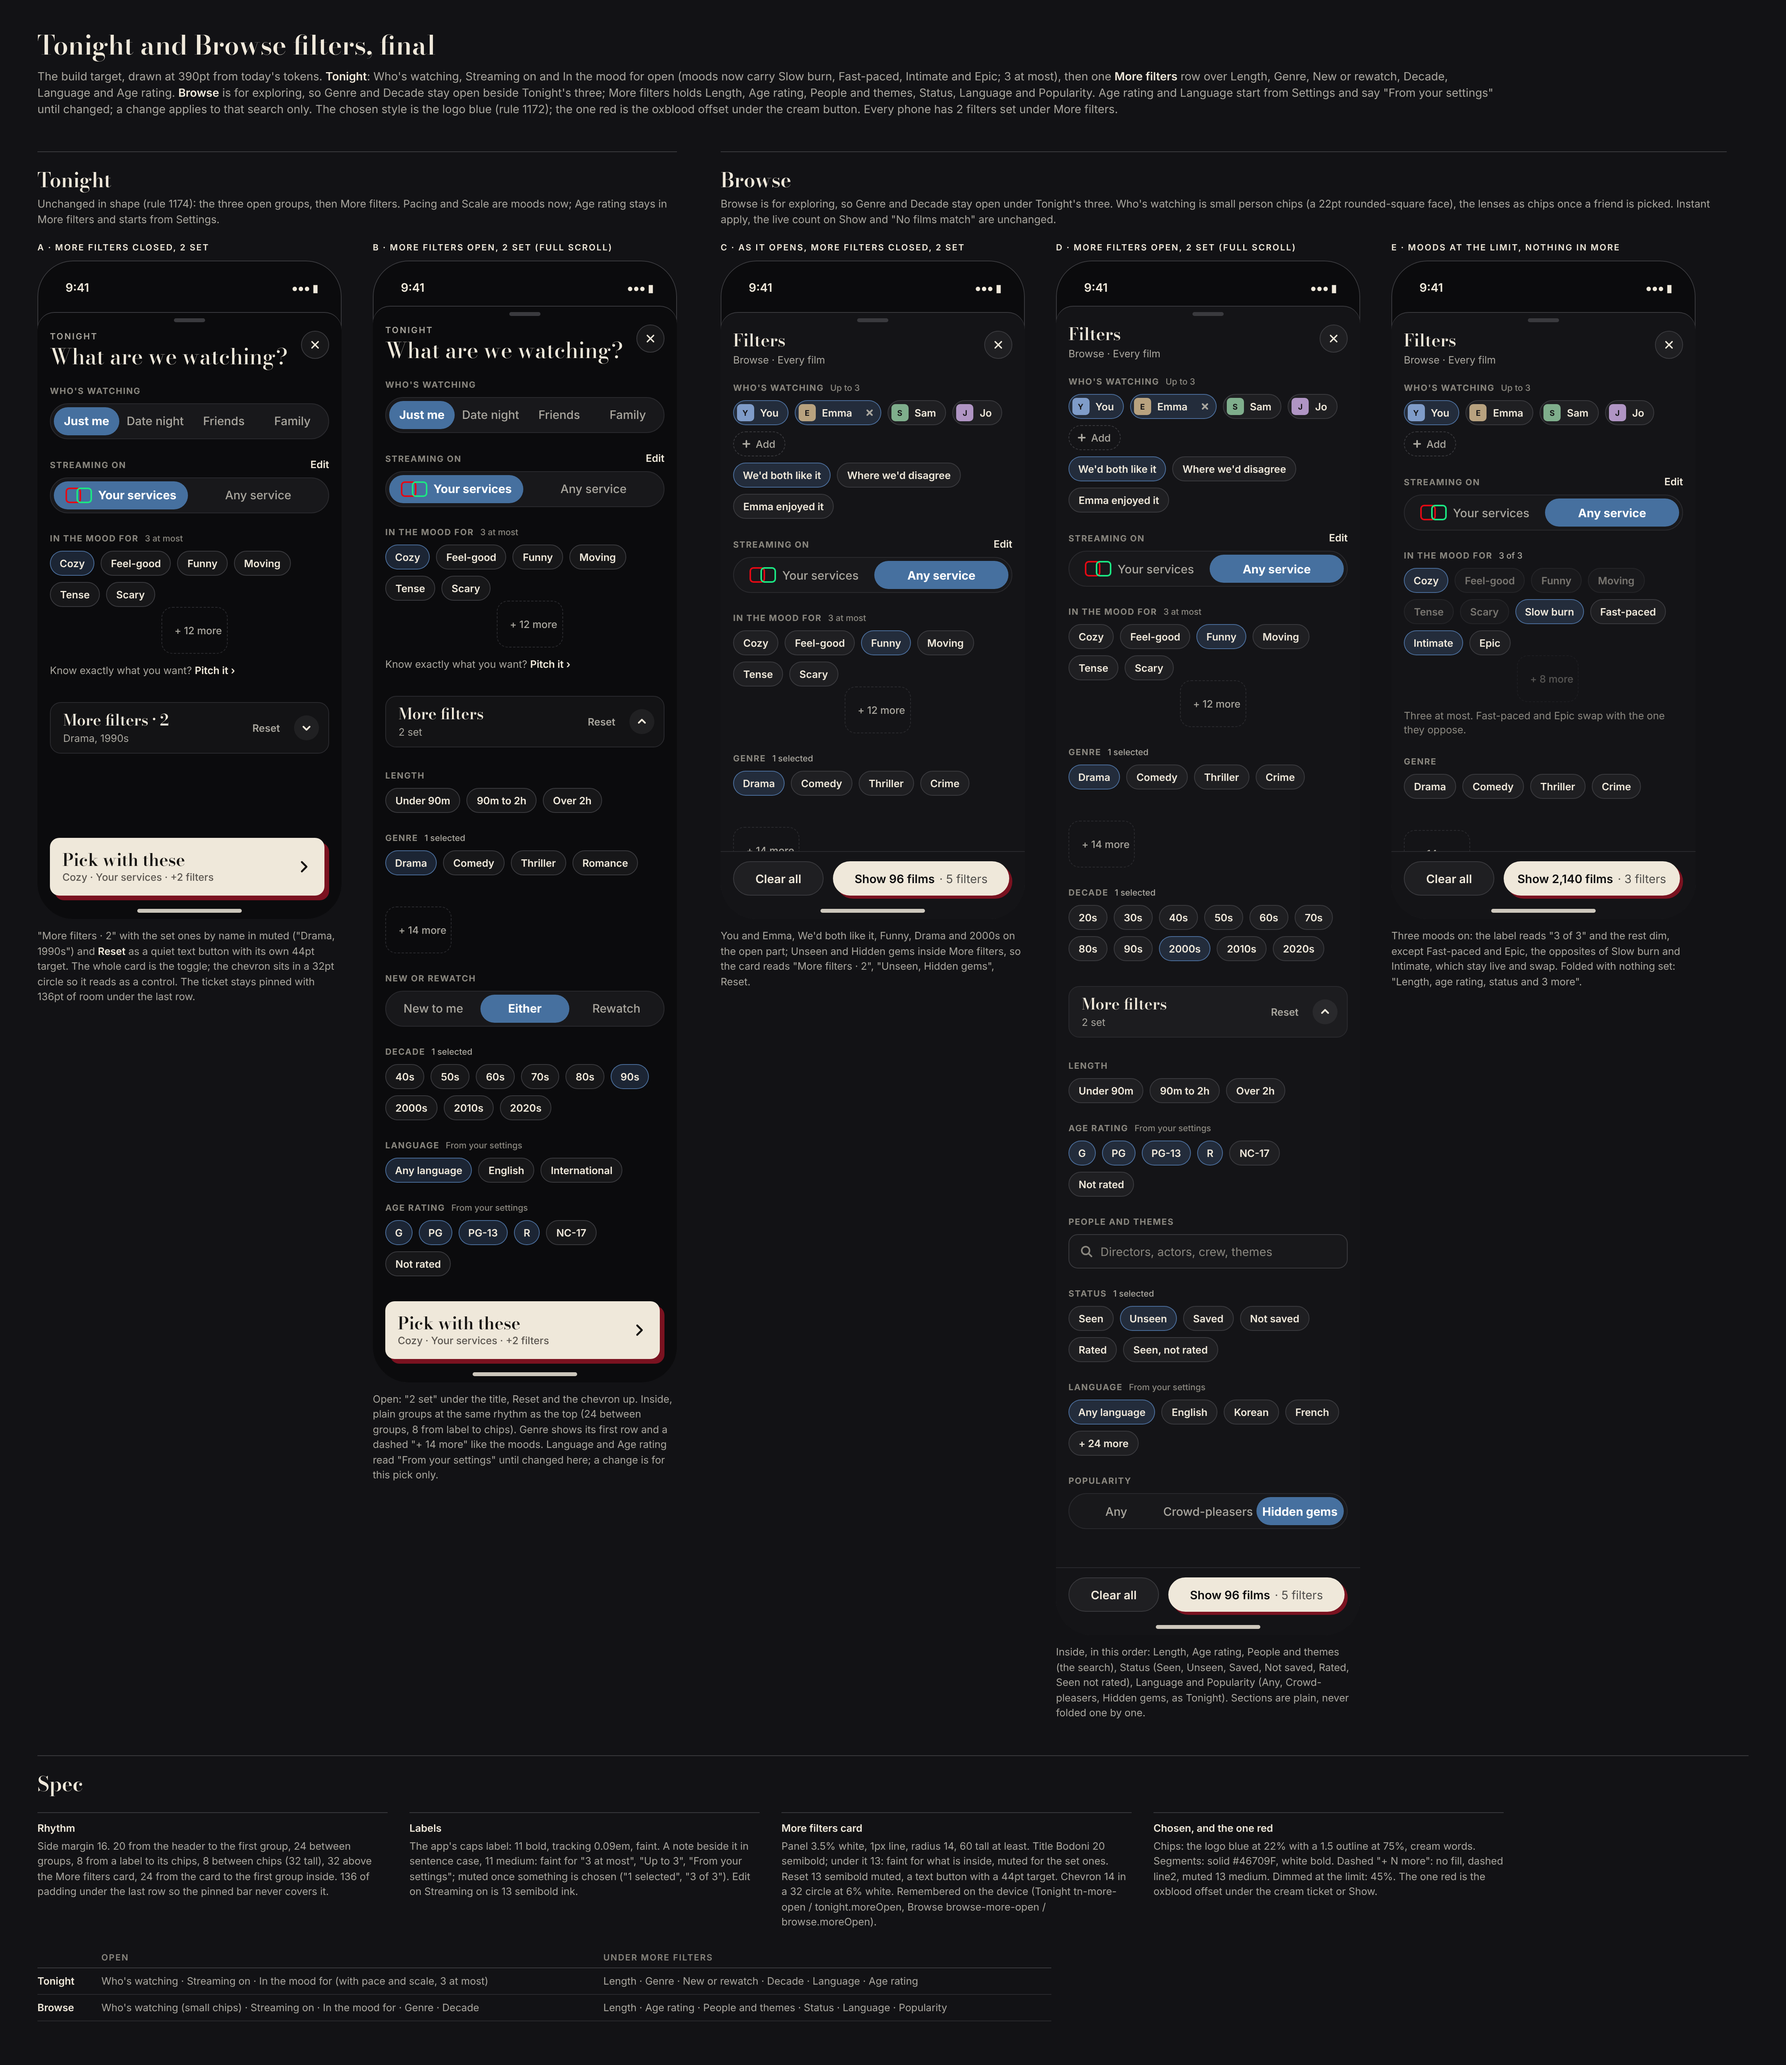
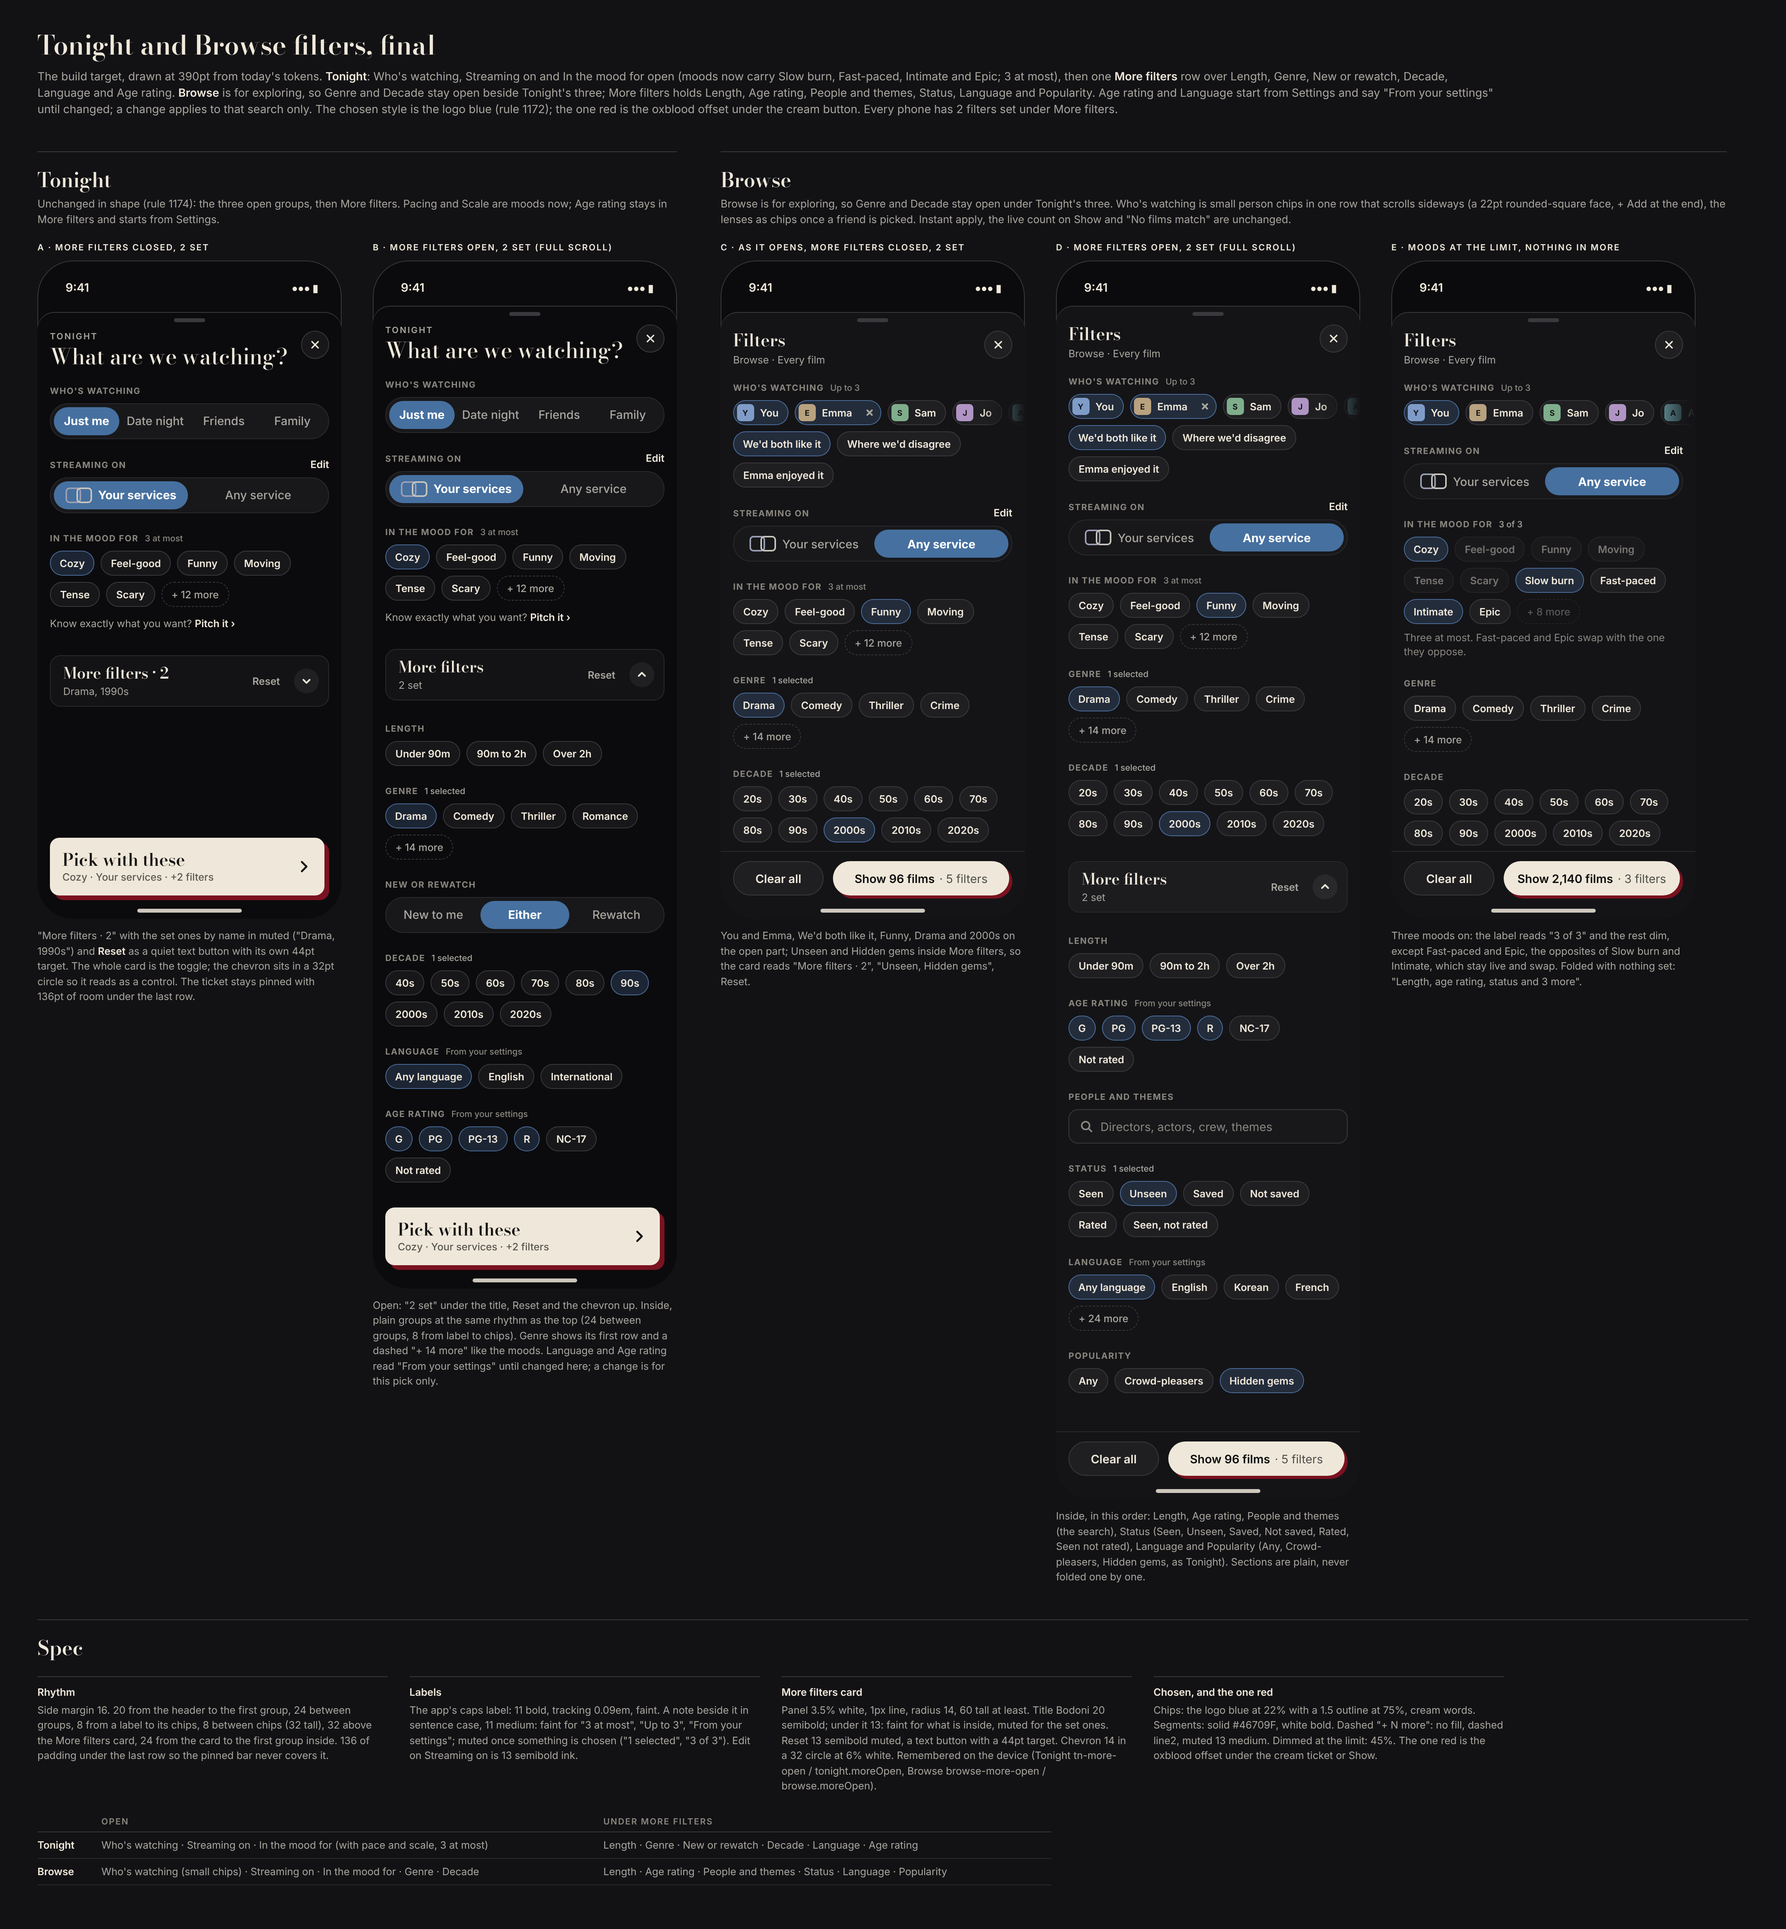
Mock: filters-final-v1, Tonight and Browse filters drawn as the build target (Browse keeps Genre and Decade open; small person chips; More filters card)
Claude-Session: https://claude.ai/code/session_013WRDCFXH8nihP92apJAVW7

diff --git a/mockups/journeys/filters-final-v1.html b/mockups/journeys/filters-final-v1.html
@@ -52,7 +52,7 @@ h1{font:600 34px/1.1 'Bodoni Moda',Georgia,serif}
 .chip{display:inline-flex;align-items:center;gap:6px;height:32px;padding:0 12px;border-radius:999px;background:rgba(255,255,255,.05);border:1px solid var(--line2);font:600 13px Inter;color:var(--ink);white-space:nowrap}
 .chip.on{background:var(--selFill);border:1.5px solid var(--selEdge);padding:0 11.5px}
 .chip.dim{opacity:.45}
-.chip.more{background:none;border-style:dashed;color:var(--muted);font-weight:500}
+.chip.mo{background:none;border-style:dashed;color:var(--muted);font-weight:500}
 .chip.add{background:none;border-style:dashed;color:var(--muted);font-weight:500;padding:0 12px 0 10px}
 .chip svg{width:12px;height:12px;stroke:currentColor;stroke-width:2;fill:none;stroke-linecap:round;stroke-linejoin:round}
 /* person chip: 22pt rounded-square face, name, and once chosen its own 28pt x */
@@ -62,6 +62,7 @@ h1{font:600 34px/1.1 'Bodoni Moda',Georgia,serif}
 .av.me{background:#7F9CC9}
 .pchip .x{width:28px;height:28px;display:inline-flex;align-items:center;justify-content:center;color:var(--muted)}
 .pchip .x svg{width:10px;height:10px;stroke:currentColor;stroke-width:2.2;fill:none;stroke-linecap:round}
+.chips.one{flex-wrap:nowrap;overflow:hidden;margin-right:-16px;-webkit-mask-image:linear-gradient(90deg,#000 85%,transparent)}
 .lens{display:flex;flex-wrap:wrap;gap:8px;margin-top:8px}
 .note{font:400 13px/18px Inter;color:var(--faint);margin-top:8px}
 /* segments */
@@ -137,12 +138,12 @@ const phone=(inner,bar,fixed=true,bg=false)=>`<div class="ph${fixed?' fixed':''}
 const tHead=`<div class="hd"><div><div class="k">Tonight</div><div class="t">What are we watching?</div></div><span class="x36">${X}</span></div>`;
 const tTop=`
  ${sec("Who's watching",seg(['Just me','Date night','Friends','Family'],'Just me'))}
- <div class="sec"><div class="sl">Streaming on<span class="sp"></span><span class="lk">Edit</span></div>${seg(['<i class="logo" style="border-color:#E50914"></i><i class="logo" style="border-color:#1CE783"></i>Your services','Any service'],'Your services')}</div>
- ${sec('In the mood for',chips(FEAT,['Cozy'],chip('+ 12 more','more')),'3 at most')}
+ <div class="sec"><div class="sl">Streaming on<span class="sp"></span><span class="lk">Edit</span></div>${seg(['<i class="logo" style="border-color:#9A9FB5"></i><i class="logo" style="border-color:#C9C5BC"></i>Your services','Any service'],'Your services')}</div>
+ ${sec('In the mood for',chips(FEAT,['Cozy'],chip('+ 12 more','mo')),'3 at most')}
  <div class="pitch">Know exactly what you want? <b>Pitch it ›</b></div>`;
 const tMoreBody=`<div class="inmore">
  ${sec('Length',chips(['Under 90m','90m to 2h','Over 2h']))}
- ${sec('Genre',chips(['Drama','Comedy','Thriller','Romance'],['Drama'],chip('+ 14 more','more')),'1 selected','set')}
+ ${sec('Genre',chips(['Drama','Comedy','Thriller','Romance'],['Drama'],chip('+ 14 more','mo')),'1 selected','set')}
  ${sec('New or rewatch',seg(['New to me','Either','Rewatch'],'Either'))}
  ${sec('Decade',chips(['40s','50s','60s','70s','80s','90s','2000s','2010s','2020s'],['90s']),'1 selected','set')}
  ${sec('Language',chips(['Any language','English','International'],['Any language']),'From your settings')}
@@ -154,27 +155,27 @@ const tB=phone(`${tHead}<div class="ct">${tTop}${more(2,'',true)}${tMoreBody}</d
 /* ---------- Browse ---------- */
 const bHead=`<div class="hd"><div><div class="t2">Filters</div><div class="s">Browse · Every film</div></div><span class="x36">${X}</span></div>`;
 const bTop=`
- <div class="sec">${sl("Who's watching",'Up to 3')}<div class="chips"><span class="pchip on" style="padding-right:12px"><span class="av me">Y</span>You</span>${pchip(PEOPLE[0],true)}${pchip(PEOPLE[1])}${pchip(PEOPLE[2])}<span class="chip add">${PLUS}Add</span></div>
+ <div class="sec">${sl("Who's watching",'Up to 3')}<div class="chips one"><span class="pchip on" style="padding-right:12px"><span class="av me">Y</span>You</span>${pchip(PEOPLE[0],true)}${pchip(PEOPLE[1])}${pchip(PEOPLE[2])}${pchip(PEOPLE[3])}<span class="chip add">${PLUS}Add</span></div>
   <div class="lens">${chip("We'd both like it",'on')}${chip("Where we'd disagree")}${chip("Emma enjoyed it")}</div></div>
- <div class="sec"><div class="sl">Streaming on<span class="sp"></span><span class="lk">Edit</span></div>${seg(['<i class="logo" style="border-color:#E50914"></i><i class="logo" style="border-color:#1CE783"></i>Your services','Any service'],'Any service')}</div>
- ${sec('In the mood for',chips(FEAT,['Funny'],chip('+ 12 more','more')),'3 at most')}
- ${sec('Genre',chips(['Drama','Comedy','Thriller','Crime'],['Drama'],chip('+ 14 more','more')),'1 selected','set')}
+ <div class="sec"><div class="sl">Streaming on<span class="sp"></span><span class="lk">Edit</span></div>${seg(['<i class="logo" style="border-color:#9A9FB5"></i><i class="logo" style="border-color:#C9C5BC"></i>Your services','Any service'],'Any service')}</div>
+ ${sec('In the mood for',chips(FEAT,['Funny'],chip('+ 12 more','mo')),'3 at most')}
+ ${sec('Genre',chips(['Drama','Comedy','Thriller','Crime'],['Drama'],chip('+ 14 more','mo')),'1 selected','set')}
  ${sec('Decade',chips(['20s','30s','40s','50s','60s','70s','80s','90s','2000s','2010s','2020s'],['2000s']),'1 selected','set')}`;
 const bMoreBody=`<div class="inmore">
  ${sec('Length',chips(['Under 90m','90m to 2h','Over 2h']))}
  ${sec('Age rating',chips(['G','PG','PG-13','R','NC-17','Not rated'],['G','PG','PG-13','R']),'From your settings')}
  <div class="sec">${sl('People and themes')}<div class="search">${SR}Directors, actors, crew, themes</div></div>
  ${sec('Status',chips(['Seen','Unseen','Saved','Not saved','Rated','Seen, not rated'],['Unseen']),'1 selected','set')}
- ${sec('Language',chips(['Any language','English','Korean','French','+ 24 more'],['Any language']),'From your settings')}
- ${sec('Popularity',seg(['Any','Crowd-pleasers','Hidden gems'],'Hidden gems'))}
+ ${sec('Language',chips(['Any language','English','Korean','French'],['Any language'],chip('+ 24 more','mo')),'From your settings')}
+ ${sec('Popularity',chips(['Any','Crowd-pleasers','Hidden gems'],['Hidden gems']))}
  </div>`;
 const bA=phone(`${bHead}<div class="ct">${bTop}${more(2,'Unseen, Hidden gems',false)}</div>`,fbar('Show 96 films',5));
 const bB=phone(`${bHead}<div class="ct">${bTop}${more(2,'',true)}${bMoreBody}</div>`,fbar('Show 96 films',5),false);
 const bC=phone(`${bHead}<div class="ct">
- <div class="sec">${sl("Who's watching",'Up to 3')}<div class="chips"><span class="pchip on" style="padding-right:12px"><span class="av me">Y</span>You</span>${pchip(PEOPLE[0])}${pchip(PEOPLE[1])}${pchip(PEOPLE[2])}<span class="chip add">${PLUS}Add</span></div></div>
- <div class="sec"><div class="sl">Streaming on<span class="sp"></span><span class="lk">Edit</span></div>${seg(['<i class="logo" style="border-color:#E50914"></i><i class="logo" style="border-color:#1CE783"></i>Your services','Any service'],'Any service')}</div>
- <div class="sec">${sl('In the mood for','3 of 3','set')}<div class="chips">${['Cozy','Feel-good','Funny','Moving','Tense','Scary','Slow burn','Fast-paced','Intimate','Epic'].map(t=>chip(t,['Cozy','Slow burn','Intimate'].includes(t)?'on':['Fast-paced','Epic'].includes(t)?'':'dim')).join('')}${chip('+ 8 more','more dim')}</div><div class="note">Three at most. Fast-paced and Epic swap with the one they oppose.</div></div>
- ${sec('Genre',chips(['Drama','Comedy','Thriller','Crime'],[],chip('+ 14 more','more')))}
+ <div class="sec">${sl("Who's watching",'Up to 3')}<div class="chips one"><span class="pchip on" style="padding-right:12px"><span class="av me">Y</span>You</span>${pchip(PEOPLE[0])}${pchip(PEOPLE[1])}${pchip(PEOPLE[2])}${pchip(PEOPLE[3])}<span class="chip add">${PLUS}Add</span></div></div>
+ <div class="sec"><div class="sl">Streaming on<span class="sp"></span><span class="lk">Edit</span></div>${seg(['<i class="logo" style="border-color:#9A9FB5"></i><i class="logo" style="border-color:#C9C5BC"></i>Your services','Any service'],'Any service')}</div>
+ <div class="sec">${sl('In the mood for','3 of 3','set')}<div class="chips">${['Cozy','Feel-good','Funny','Moving','Tense','Scary','Slow burn','Fast-paced','Intimate','Epic'].map(t=>chip(t,['Cozy','Slow burn','Intimate'].includes(t)?'on':['Fast-paced','Epic'].includes(t)?'':'dim')).join('')}${chip('+ 8 more','mo dim')}</div><div class="note">Three at most. Fast-paced and Epic swap with the one they oppose.</div></div>
+ ${sec('Genre',chips(['Drama','Comedy','Thriller','Crime'],[],chip('+ 14 more','mo')))}
  ${sec('Decade',chips(['20s','30s','40s','50s','60s','70s','80s','90s','2000s','2010s','2020s']))}
  ${more(0,'Length, age rating, status and 3 more',false)}</div>`,fbar('Show 2,140 films',3));
 
@@ -183,7 +184,7 @@ document.getElementById('tonight').innerHTML=`<div class="part">Tonight</div><di
  <div class="col"><div class="lab">A · More filters closed, 2 set</div>${tA}<p class="cap">"More filters · 2" with the set ones by name in muted ("Drama, 1990s") and <b>Reset</b> as a quiet text button with its own 44pt target. The whole card is the toggle; the chevron sits in a 32pt circle so it reads as a control. The ticket stays pinned with 136pt of room under the last row.</p></div>
  <div class="col"><div class="lab">B · More filters open, 2 set (full scroll)</div>${tB}<p class="cap">Open: "2 set" under the title, Reset and the chevron up. Inside, plain groups at the same rhythm as the top (24 between groups, 8 from label to chips). Genre shows its first row and a dashed "+ 14 more" like the moods. Language and Age rating read "From your settings" until changed here; a change is for this pick only.</p></div>
 </div>`;
-document.getElementById('browse').innerHTML=`<div class="part">Browse</div><div class="h2s">Browse is for exploring, so Genre and Decade stay open under Tonight's three. Who's watching is small person chips (a 22pt rounded-square face), the lenses as chips once a friend is picked. Instant apply, the live count on Show and "No films match" are unchanged.</div>
+document.getElementById('browse').innerHTML=`<div class="part">Browse</div><div class="h2s">Browse is for exploring, so Genre and Decade stay open under Tonight's three. Who's watching is small person chips in one row that scrolls sideways (a 22pt rounded-square face, + Add at the end), the lenses as chips once a friend is picked. Instant apply, the live count on Show and "No films match" are unchanged.</div>
 <div class="row">
  <div class="col"><div class="lab">C · As it opens, More filters closed, 2 set</div>${bA}<p class="cap">You and Emma, We'd both like it, Funny, Drama and 2000s on the open part; Unseen and Hidden gems inside More filters, so the card reads "More filters · 2", "Unseen, Hidden gems", Reset.</p></div>
  <div class="col"><div class="lab">D · More filters open, 2 set (full scroll)</div>${bB}<p class="cap">Inside, in this order: Length, Age rating, People and themes (the search), Status (Seen, Unseen, Saved, Not saved, Rated, Seen not rated), Language and Popularity (Any, Crowd-pleasers, Hidden gems, as Tonight). Sections are plain, never folded one by one.</p></div>
